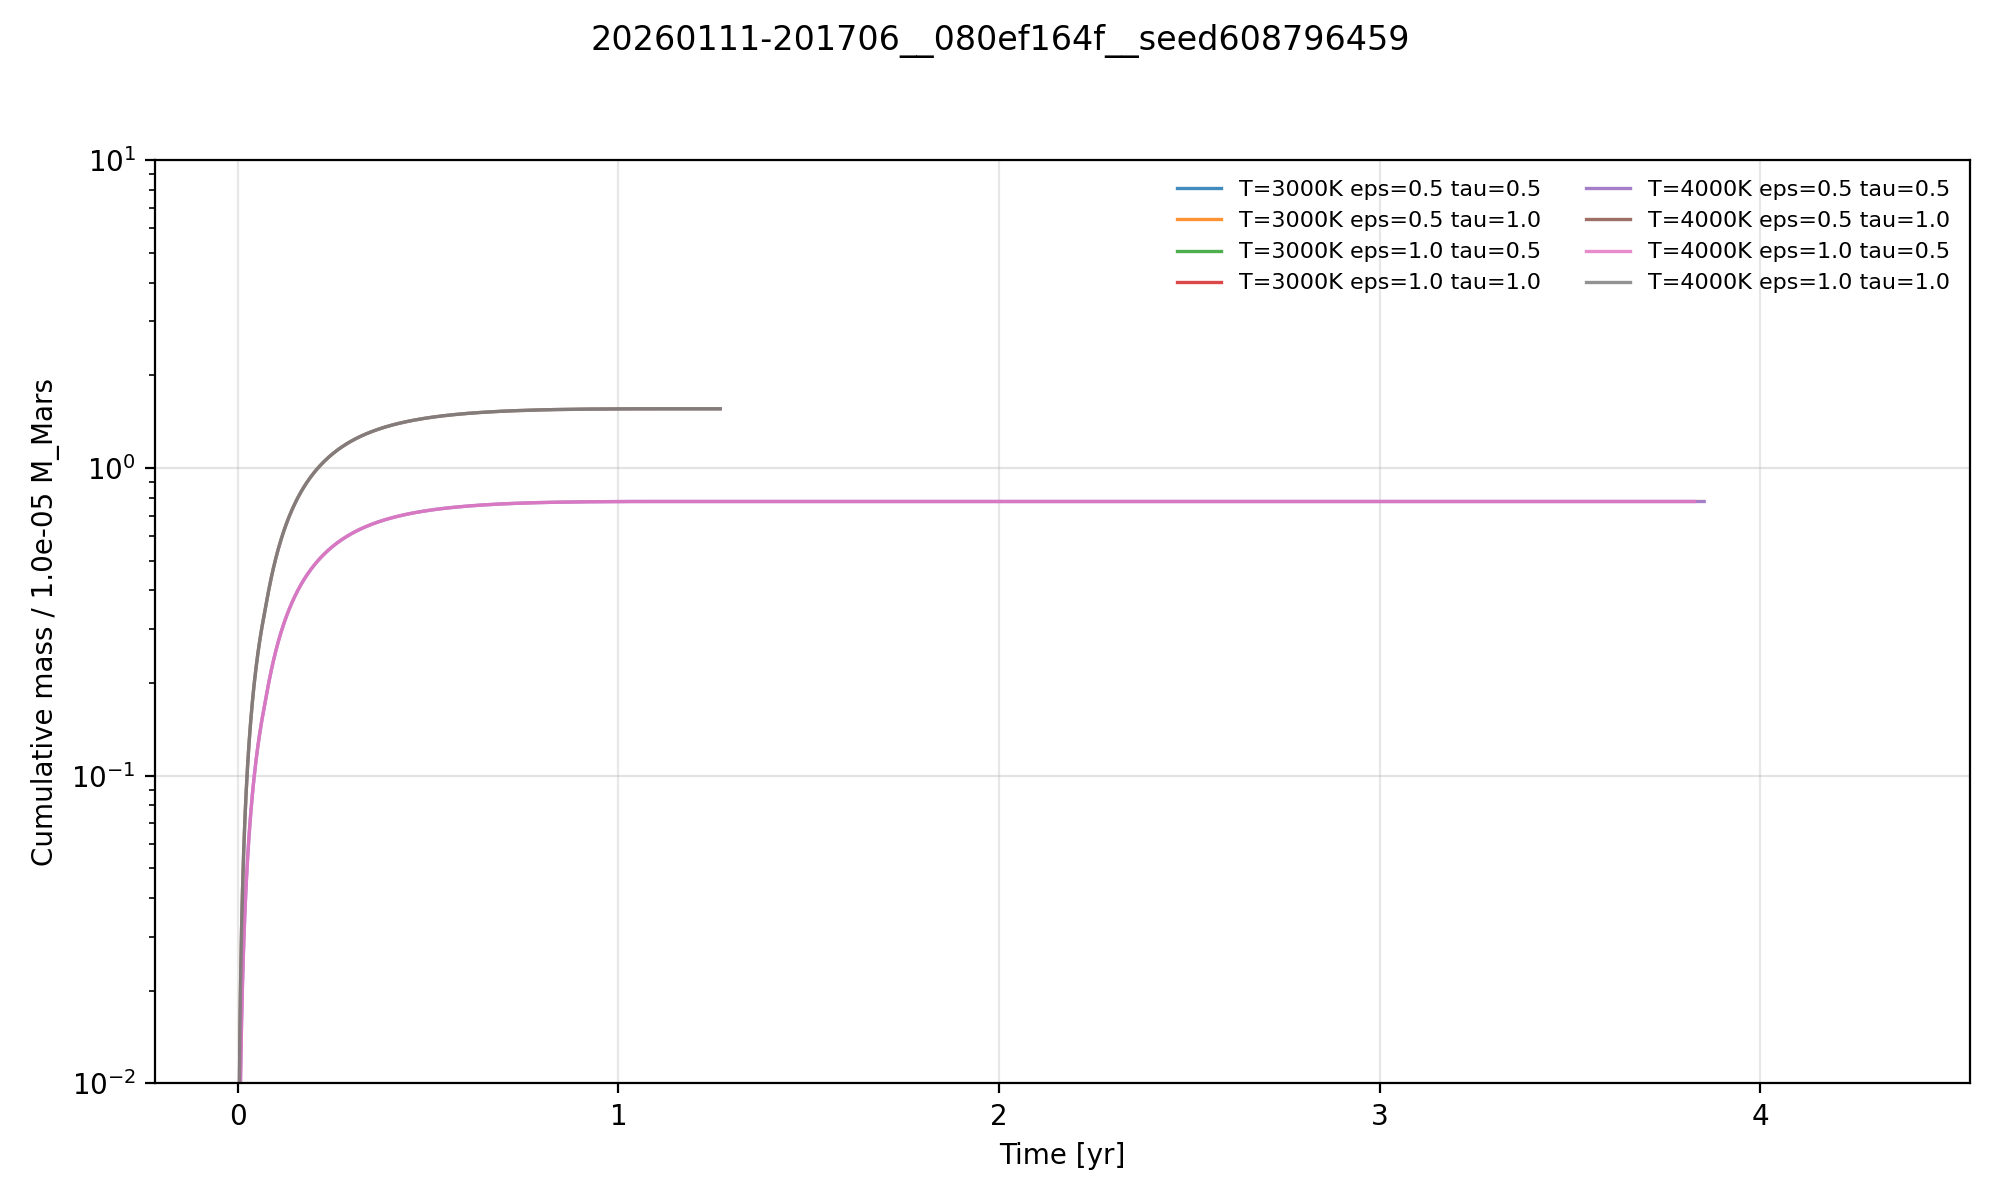
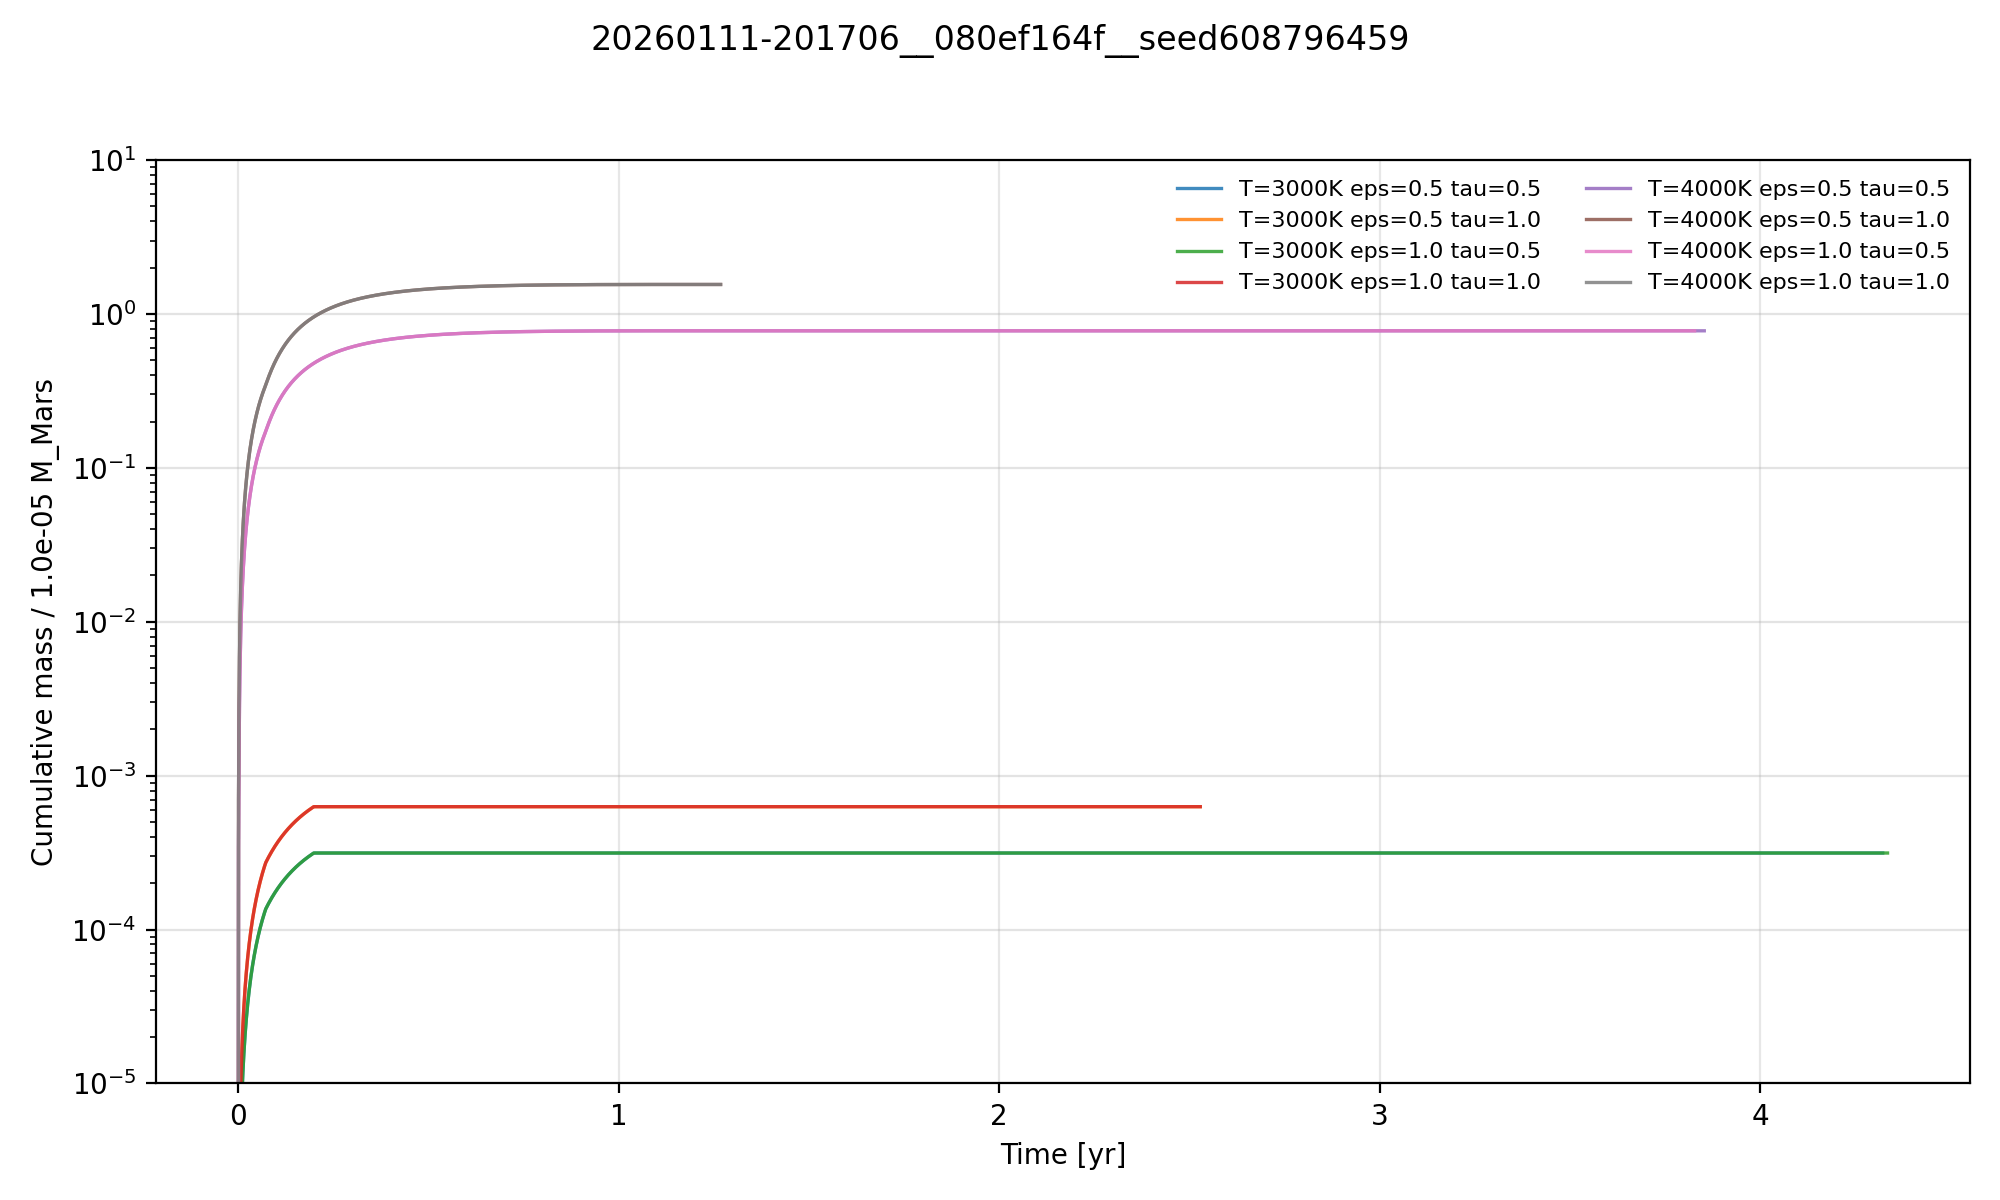
Adjust cumulative mass plot ticks

diff --git a/figures/temp/plot_temp_supply_sweep_cumulative_mass.py b/figures/temp/plot_temp_supply_sweep_cumulative_mass.py
@@ -165,7 +165,7 @@ def main() -> int:
     ax.set_xlabel("Time [yr]")
     ax.set_ylabel(f"Cumulative mass / {args.ref_mass:.1e} M_Mars")
     ax.set_yscale("log")
-    ticks = [1e-2, 1e-1, 1e0, 1e1]
+    ticks = [1e-5, 1e-4, 1e-3, 1e-2, 1e-1, 1e0, 1e1]
     ax.set_ylim(ticks[0], ticks[-1])
     ax.set_yticks(ticks)
     ax.yaxis.set_major_formatter(LogFormatterMathtext(base=10.0))
